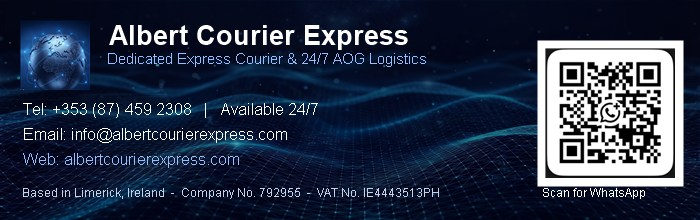
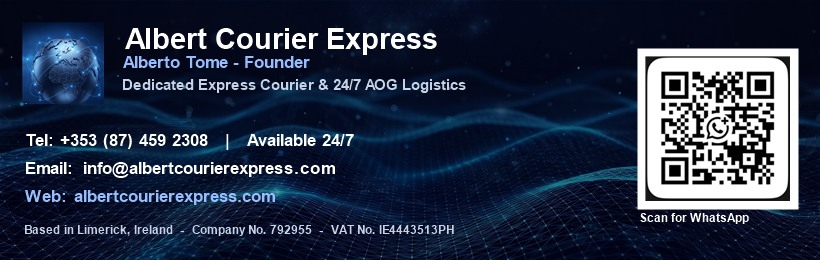
Update email signature: bolder text, founder name, larger layout

diff --git a/email-signature.html b/email-signature.html
@@ -1,0 +1,3 @@
+<a href="https://albertcourierexpress.com" style="text-decoration:none; border:0;">
+  <img src="https://albertcourierexpress.com/signature-full.jpg" width="700" height="220" alt="Albert Courier Express - Tel: +353 (87) 459 2308 - info@albertcourierexpress.com - albertcourierexpress.com" border="0" style="display:block; max-width:700px; width:100%;">
+</a>
